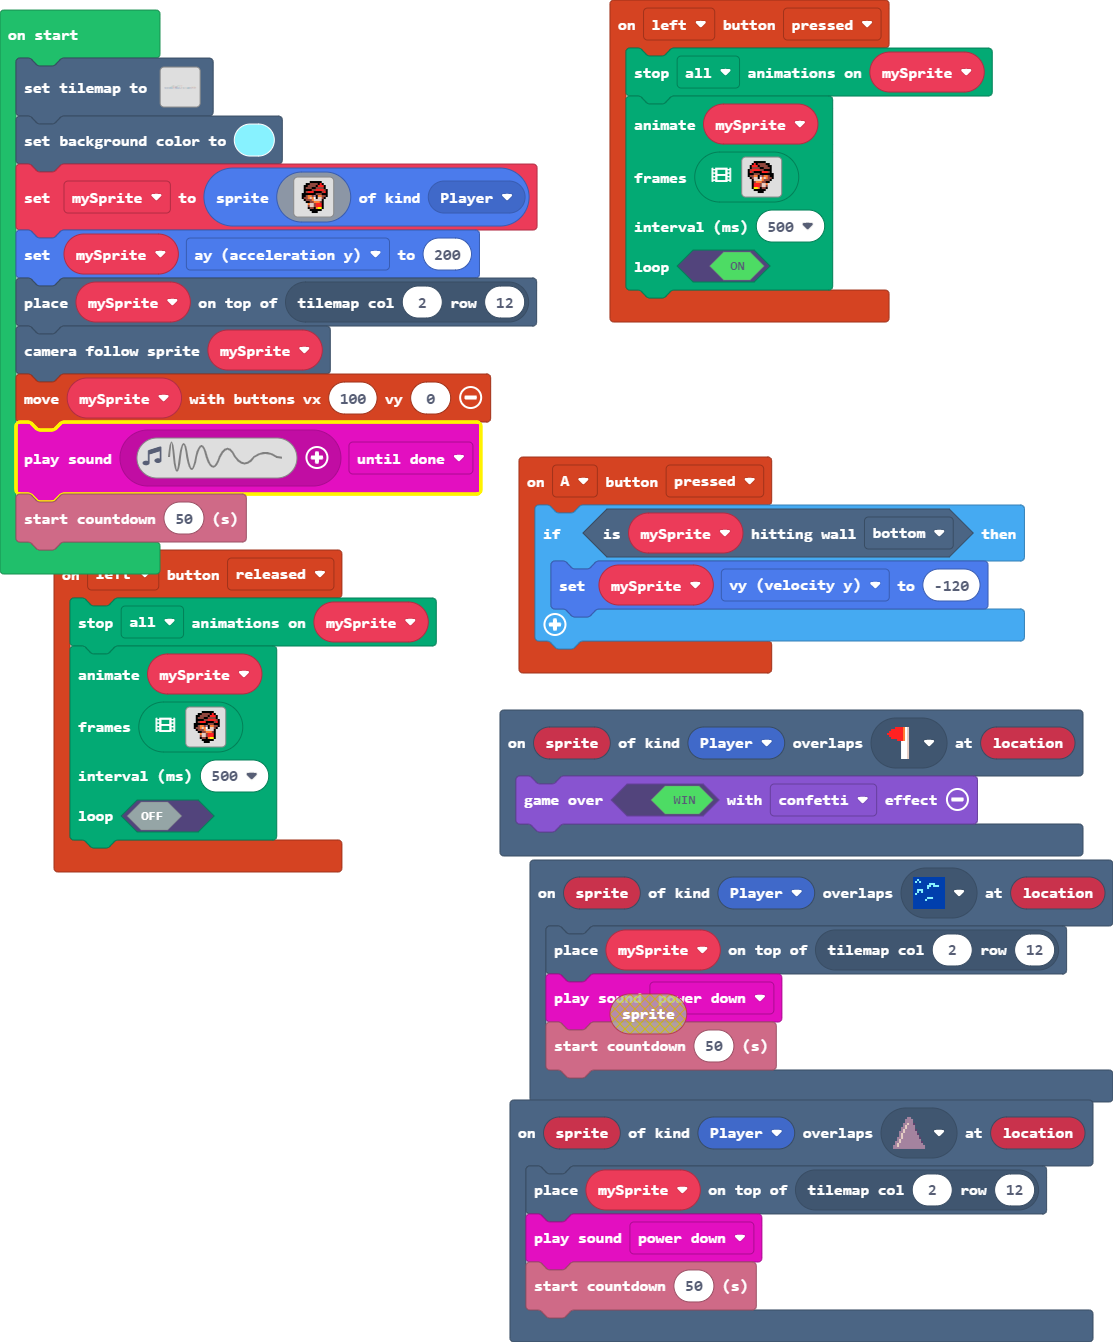
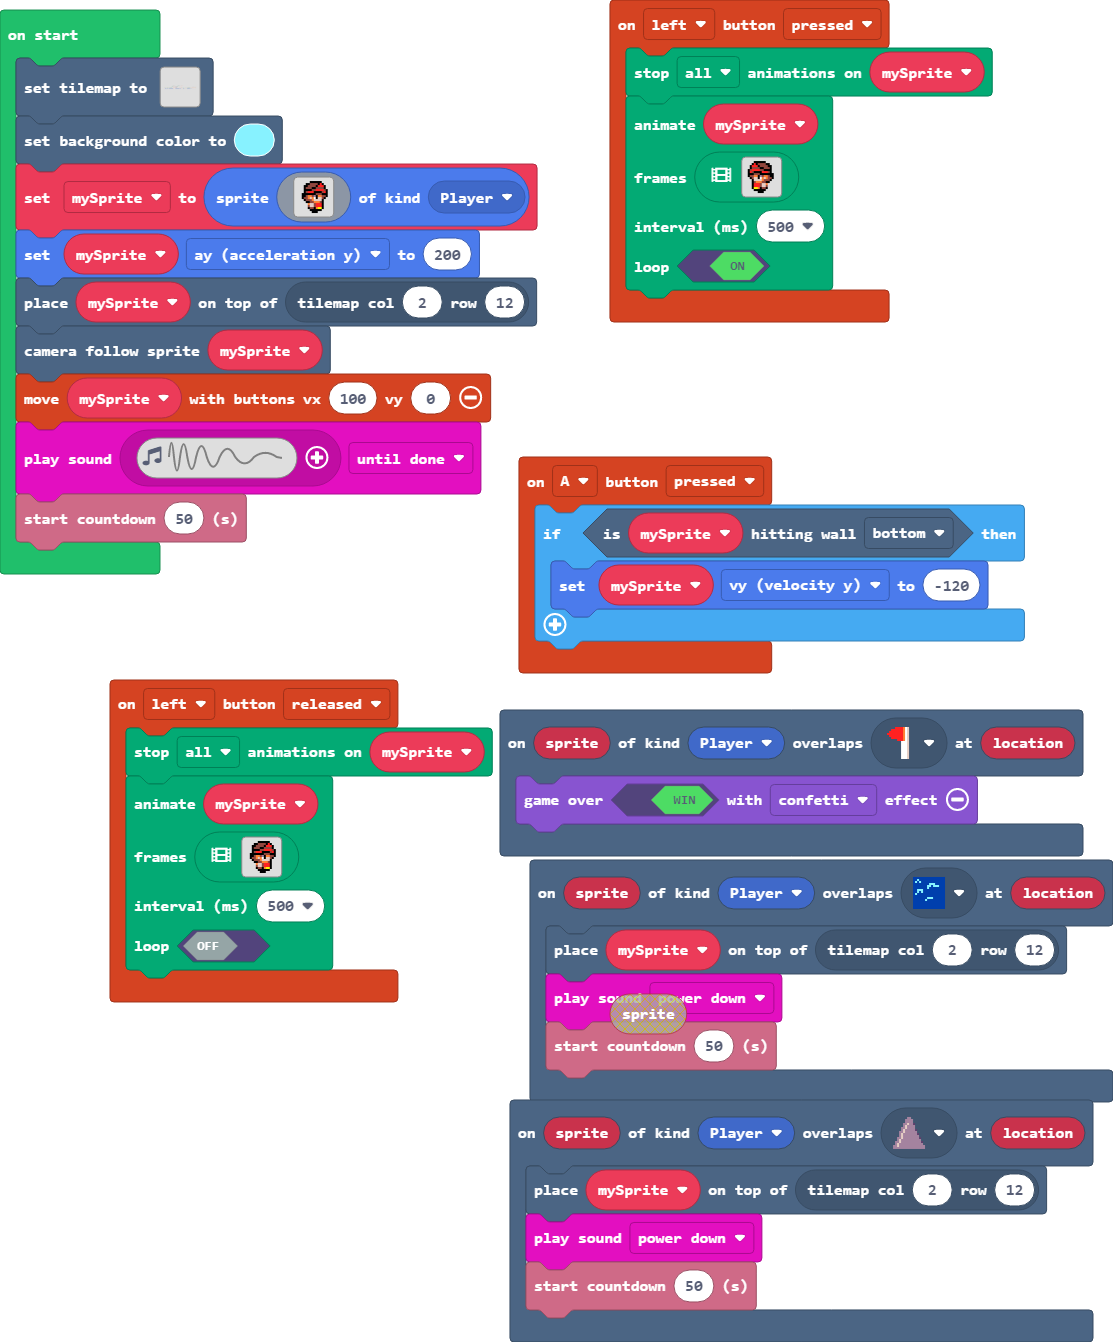
Update main.blocks, tilemap.g.jres, tilemap.g.ts

diff --git a/tilemap.g.ts b/tilemap.g.ts
@@ -18,6 +18,8 @@ namespace myTiles {
     export const tile7 = image.ofBuffer(hex``);
     //% fixedInstance jres blockIdentity=images._tile
     export const tile8 = image.ofBuffer(hex``);
+    //% fixedInstance jres blockIdentity=images._tile
+    export const tile9 = image.ofBuffer(hex``);
 
     helpers._registerFactory("tilemap", function(name: string) {
         switch(helpers.stringTrim(name)) {
@@ -79,6 +81,8 @@ namespace myTiles {
             case "tile7":return tile7;
             case "myTile":
             case "tile8":return tile8;
+            case "myTile0":
+            case "tile9":return tile9;
         }
         return null;
     })
